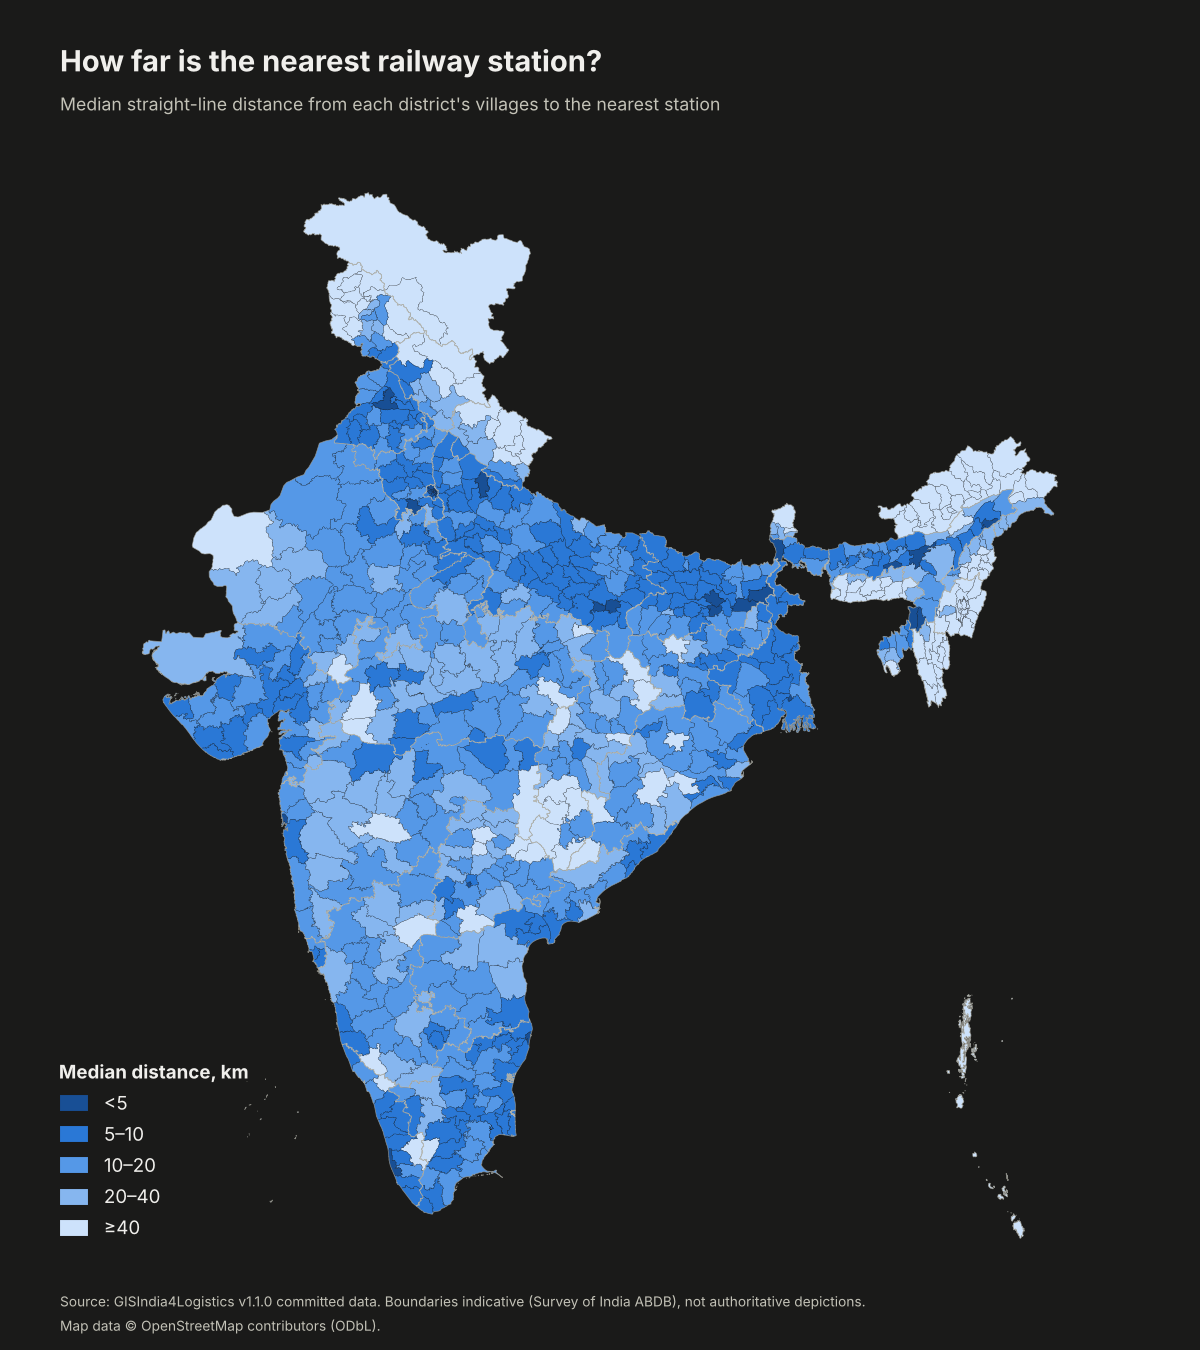
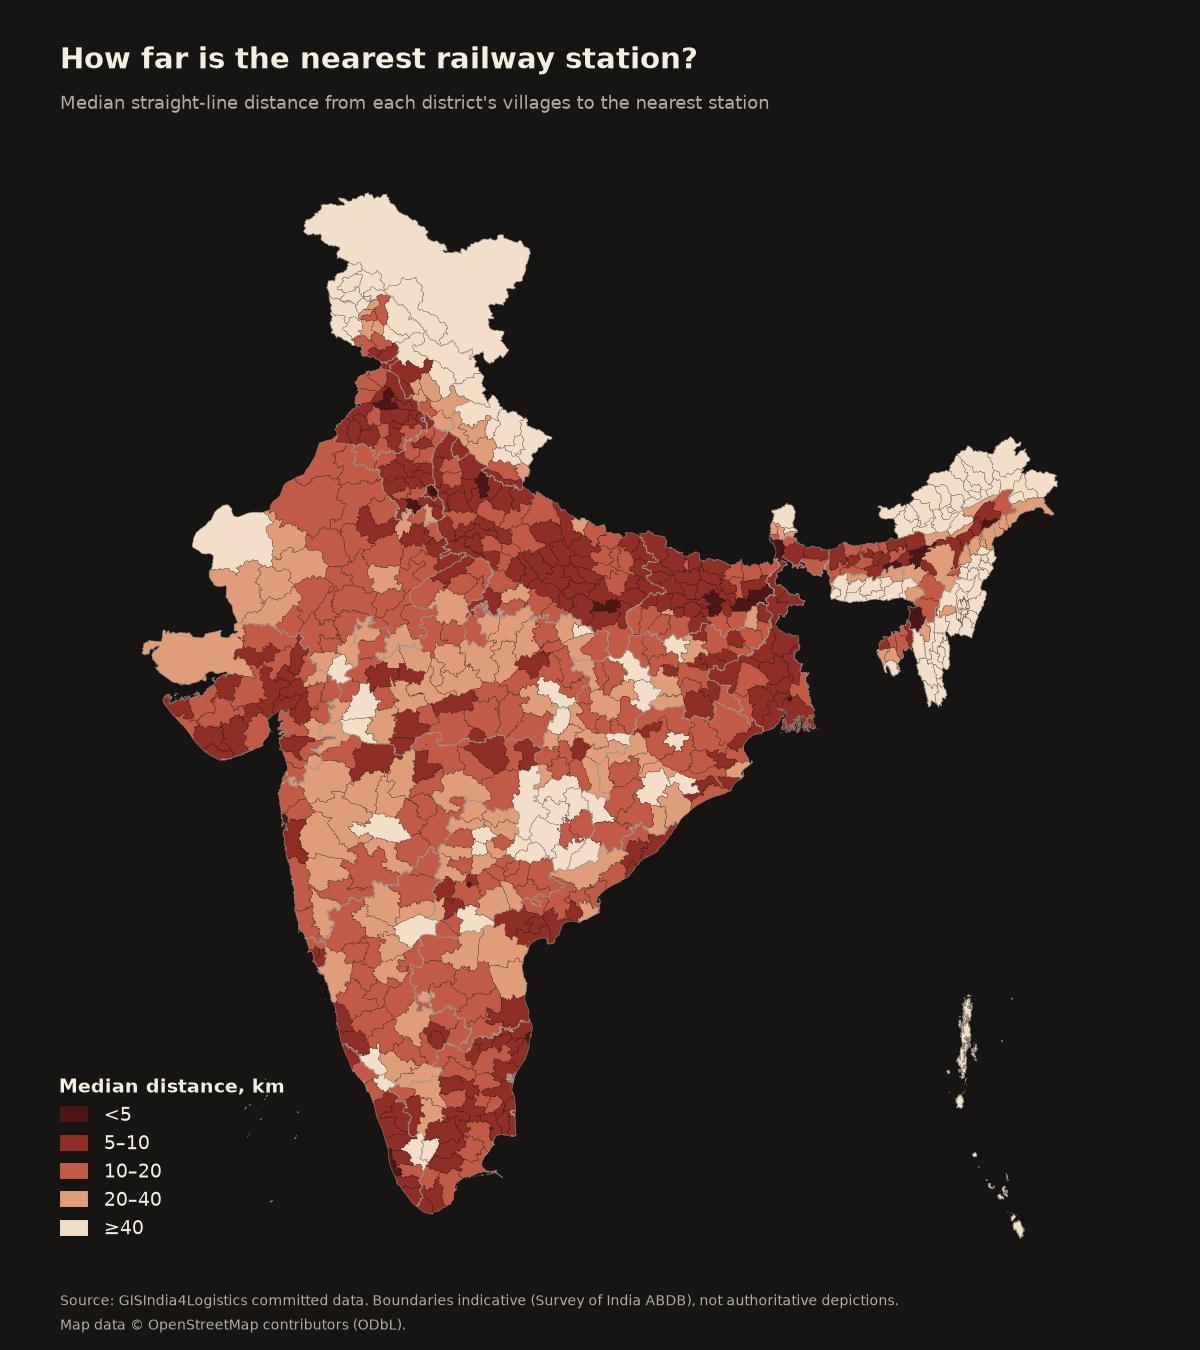
style(maps): apply Koraput x Ganjam (South Odisha) cartographic palette to README and demo maps

diff --git a/scripts/analyze/make_readme_figures.py b/scripts/analyze/make_readme_figures.py
@@ -10,9 +10,12 @@ Maps (780 current LGD districts, EPSG:7755, state outlines overlaid):
    network to the nearest inland container depot
    (``icd_drive_time_hours`` in data/analysis/nh_district_travel_time_summary.csv).
 
-Colour: one sequential blue ramp with 5 fixed, human-readable classes
-(not quantiles). Island districts / districts without a value get a neutral
-grey with its own legend entry. Every map carries the boundary disclaimer.
+Colour: Koraput × Ganjam (South Odisha) cartographic palette — two 5-class
+sequential ramps with fixed, human-readable classes (not quantiles):
+  * Rail access: Kotpad Aal (GI-tagged madder dye on unbleached cotton).
+  * ICD drive time: Gopalpur Sea (Bay of Bengal / Rushikulya coastal teal).
+Island districts / districts without a value get a warm neutral stone grey with
+its own legend entry. Every map carries the boundary disclaimer.
 
 Joins (all on LGD ``district_code``, scoped by state)
 ------------------------------------------------------
@@ -53,29 +56,34 @@ DEFAULT_OUT = REPO_ROOT / "docs" / "img"
 
 PROJ_EPSG = 7755
 FOOTER_LINES = (
-    "Source: GISIndia4Logistics v1.1.0 committed data. Boundaries indicative "
+    "Source: GISIndia4Logistics committed data. Boundaries indicative "
     "(Survey of India ABDB), not authoritative depictions.",
     "Map data \u00a9 OpenStreetMap contributors (ODbL).",
 )
 
-# Sequential single-hue blue ramp, 5 classes, index 0 = smallest values.
-# Light mode: light -> dark = small -> large (more = darker blue).
-# Dark mode: same hue on a dark surface; larger values = lighter/brighter
-# ("more ink" on dark), so light -> dark is reversed relative to value order:
-# dark-mode steps run from the deepest blue (small) to the palest (large).
+# Koraput × Ganjam (South Odisha) sequential ramps, 5 classes, index 0 = smallest values.
+# Light mode (Kotpad unbleached cotton #faf6ee): light -> dark = small -> large.
+# Dark mode (Iron-mordant obsidian #171514): larger values = lighter/brighter ("more ink").
 RAMPS = {
-    "light": ["#cde2fb", "#86b6ef", "#3987e5", "#1c5cab", "#0d366b"],
-    "dark": ["#184f95", "#2a78d6", "#5598e7", "#86b6ef", "#cde2fb"],
+    "kotpad_aal": {
+        "light": ["#f4e8dc", "#dfaa8f", "#c15b47", "#8f2d27", "#4d1716"],
+        "dark": ["#4d1716", "#8f2d27", "#c15b47", "#df9d7a", "#f3dec9"],
+    },
+    "gopalpur_sea": {
+        "light": ["#dcecef", "#8cc1cc", "#2e788e", "#1e5468", "#10313e"],
+        "dark": ["#143a49", "#1e5468", "#2e788e", "#7fb8c4", "#d4eaee"],
+    },
 }
 THEMES = {
-    "light": dict(surface="#fcfcfb", text="#0b0b0b", muted="#52514e", nodata="#d9d8d4"),
-    "dark": dict(surface="#1a1a19", text="#f0efec", muted="#c3c2b7", nodata="#6b6a65"),
+    "light": dict(surface="#faf6ee", text="#1b1917", muted="#6b6158", nodata="#dcd3c6"),
+    "dark": dict(surface="#171514", text="#f5efe2", muted="#b5aa9d", nodata="#4a423c"),
 }
 
 # Fixed class breaks (lower-inclusive: 5 falls in "5-10", 40 in ">=40").
 MAPS = {
     "rail_access": dict(
         stem="readme_rail_access",
+        ramp="kotpad_aal",
         title="How far is the nearest railway station?",
         subtitle="Median straight-line distance from each district's villages to the nearest station",
         legend_title="Median distance, km",
@@ -85,6 +93,7 @@ MAPS = {
     ),
     "icd_drive": dict(
         stem="readme_icd_drive",
+        ramp="gopalpur_sea",
         title="Drive time to the nearest ICD / CFS",
         subtitle="Estimated National Highway drive time from each district to its nearest inland container depot or CFS",
         legend_title="Drive time, hours",
@@ -196,7 +205,7 @@ def classify(values: pd.Series, bins: list[float]) -> np.ndarray:
 
 def render(districts_p: gpd.GeoDataFrame, states_p: gpd.GeoDataFrame, classes: np.ndarray,
            spec: dict, theme: str, out_path: Path, order: pd.Series | None = None) -> None:
-    th, ramp = THEMES[theme], RAMPS[theme]
+    th, ramp = THEMES[theme], RAMPS[spec["ramp"]][theme]
     colors = [th["nodata"] if c < 0 else ramp[c] for c in classes]
     fig = plt.figure(figsize=(FIG_W, FIG_H), dpi=DPI, facecolor=th["surface"])
     ax = fig.add_axes([0.03, 0.075, 0.94, 0.79])

diff --git a/scripts/make_demo.py b/scripts/make_demo.py
@@ -31,11 +31,12 @@ from standardize import DATA_DIR, REPO_ROOT, points_from_csv  # noqa: E402
 
 OUT_DIR = REPO_ROOT / "examples" / "output"
 
+# Koraput × Ganjam (South Odisha) semantic road palette
 ROAD_STYLE = {
-    "NH": dict(color="#d62728", linewidth=1.6, zorder=5),
-    "SH": dict(color="#ff7f0e", linewidth=1.1, zorder=4),
-    "MDR": dict(color="#bcbd22", linewidth=0.7, zorder=3),
-    "ODR": dict(color="#7f7f7f", linewidth=0.4, zorder=2),
+    "NH": dict(color="#a83b32", linewidth=1.6, zorder=5),   # Kotpad Aal
+    "SH": dict(color="#d99b38", linewidth=1.1, zorder=4),   # Kewda / Alasi Gold
+    "MDR": dict(color="#3e5c45", linewidth=0.7, zorder=3),  # Deomali Moss
+    "ODR": dict(color="#a89f94", linewidth=0.4, zorder=2),  # Eastern Ghats Stone
 }
 
 
@@ -105,28 +106,29 @@ def main() -> None:
 
     # --- map ---
     import matplotlib.pyplot as plt
-    fig, ax = plt.subplots(figsize=(11, 11))
-    district.boundary.plot(ax=ax, color="#2c3e50", linewidth=1.2)
+    fig, ax = plt.subplots(figsize=(11, 11), facecolor="#faf6ee")
+    ax.set_facecolor("#faf6ee")
+    district.boundary.plot(ax=ax, color="#1b1917", linewidth=1.2)
     for cls, style in ROAD_STYLE.items():
         sub = roads[roads["road_class"] == cls]
         if len(sub):
             sub.plot(ax=ax, label=f"Road {cls}", **style)
     if len(rail):
-        rail.plot(ax=ax, color="#17a2b8", linewidth=0.8, linestyle="--", label="Railway")
+        rail.plot(ax=ax, color="#1e5468", linewidth=0.8, linestyle="--", label="Railway")
     if len(stations):
-        stations.plot(ax=ax, color="k", markersize=3, marker="s", label="Stations")
+        stations.plot(ax=ax, color="#4d1716", markersize=3, marker="s", label="Stations")
     if len(hubs):
-        hubs.plot(ax=ax, color="#8e44ad", markersize=40, marker="^",
-                  edgecolor="w", label="Logistics hubs")
-    ax.set_title(f"{args.district} district — logistics layers (OSM + committed datasets)")
-    ax.legend(loc="lower left", fontsize=8, framealpha=0.9)
+        hubs.plot(ax=ax, color="#7d2434", markersize=40, marker="^",
+                  edgecolor="#faf6ee", label="Logistics hubs")
+    ax.set_title(f"{args.district} district — logistics layers (OSM + committed datasets)", color="#1b1917")
+    ax.legend(loc="lower left", fontsize=8, framealpha=0.92, facecolor="#faf6ee", edgecolor="#d6ccbe")
     ax.set_axis_off()
     fig.text(0.99, 0.01,
              "Boundaries indicative (Survey of India ABDB), not authoritative "
              "depictions; © OpenStreetMap contributors (ODbL)",
-             ha="right", fontsize=6, color="#555555")
+             ha="right", fontsize=6, color="#6b6158")
     png = OUT_DIR / f"{args.district.lower().replace(' ', '_')}_logistics_map.png"
-    fig.savefig(png, dpi=150, bbox_inches="tight")
+    fig.savefig(png, dpi=150, bbox_inches="tight", facecolor="#faf6ee")
     print(f"Wrote map -> {png}")
 
 
